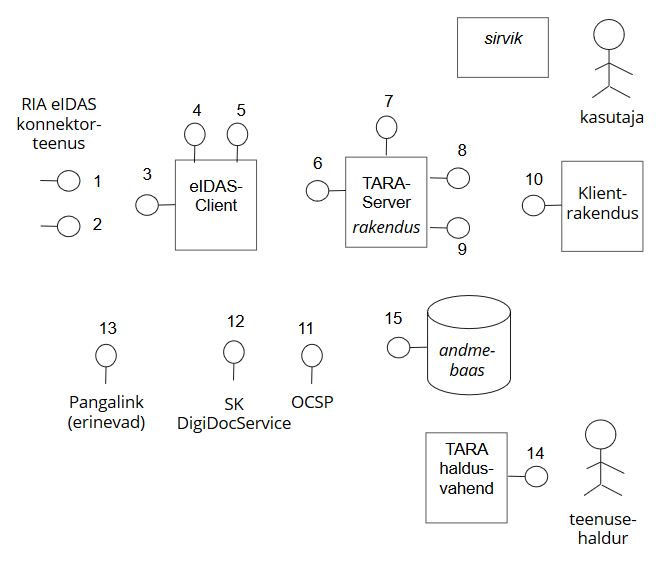
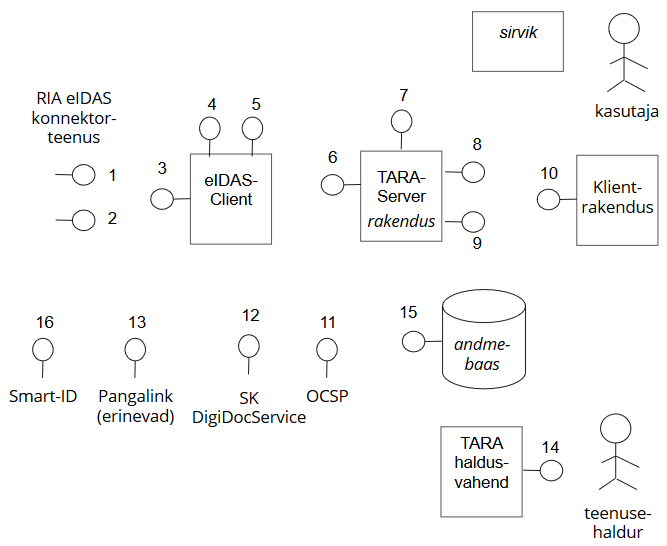
+

diff --git a/css/Times.css b/css/Times.css
@@ -90,7 +90,7 @@ p { margin: 0 0 1em 0; }
 /*#region Tabelid */
 table { width: 100%; margin: 0 4em 2em 0; }
 table { border-collapse: collapse; }    
-table, th, td { border: 1px solid black; }
+table, th, td { border: 1px solid lightgray; }
 th, td { padding: 8px; }
 th { font-weight: normal; font-style: italic; text-align: center; }
 /*#endregion */

diff --git a/Arhitektuurikirjeldus.md b/Arhitektuurikirjeldus.md
@@ -15,7 +15,7 @@ Käesolev dokument kirjeldab autentimisteenuse TARA ja selle vahetu ümbruse:
 - teenused ja liidesed
 - peamised sõltuvused.
 
-Ülevaate osapooltest, komponentidest ja liidestest esitab järgnev joonis. Täpsemad kirjeldused vt allpool.
+Ülevaate osapooltest, komponentidest ja liidestest esitab järgnev joonis. (Teenused on esitatud numbritega.) Täpsemad kirjeldused vt allpool.
 
 <p style='text-align:center;'><img src='img/TARA-Arhi.PNG' style='width:600px'></p>
 
@@ -23,35 +23,60 @@ Käesolev dokument kirjeldab autentimisteenuse TARA ja selle vahetu ümbruse:
 
 _Teenusena mõistame siin ühe komponendi v osapoole poolt teisele pakutavat andmeteenust või kasutajaliidest._
 
+RIA eIDAS konnektorteenus
+
 nr | teenus    | kasutaja(d)
 ---|-----------|-----------------------
-   | RIA eIDAS konnektorteenus | 
 1  | autentimispäringu vastuvõtu otspunkt | TARA server
 2  | metateabe otspunkt                   | eIDAS klient
-   | eIDAS-Client |
+
+eIDAS-Client
+
+nr | teenus    | kasutaja(d)
+---|-----------|-----------------------
 3  | metateabe otspunkt | RIA eIDAS konnektorteenus
 4  | autentimispäringu moodustamise otspunkt | TARA server
 5  | autentimisvastuse töötlemise otspunkt | TARA server
-   | TARA-Server
+
+TARA-Server
+
+nr | teenus    | kasutaja(d)
+---|-----------|-----------------------
 6  | eIDAS autentimisvastuse vastuvõtu otspunkt | RIA eIDAS konnektorteenus
 7  | autentimismeetodi valiku kasutajaliides<br>ID-kaardiga autentimise kasutajaliidest<br>mobiil-ID-ga autentimise kasutajaliides | kasutaja
 8  | autentimispäringu vastuvõtu otspunkt (OpenID Connect) | klientrakendus
 9  | identsustõendi väljastamise otspunkt (OpenID Connect) | klientrakendus
-   | klientrakendus |
+
+klientrakendus
+
+nr | teenus    | kasutaja(d)
+---|-----------|-----------------------
 10 | OpenID Connect tagasisuunamisotspunkt | TARA server
-   | SK ID Solutions
+
+SK ID Solutions
+
+nr | teenus    | kasutaja(d)
+---|-----------|-----------------------
 11 | ID-kaardi kehtivuskinnitusteenus (OCSP) | TARA server
 12 | mobiil-ID-ga autentimise teenus DigiDocService | TARA server
    | Pank (erinevad)
+16 | Smart-ID (veel teostamata) | TARA server   
+
+Panga infosüsteem
+
 13 | panga autentimisteenus ("pangalink") | TARA server
-   | TARA haldusvahend
+
+TARA haldusvahend
+
+nr | teenus    | kasutaja(d)
+---|-----------|-----------------------
 14 | teenusehalduri kasutajaliides | teenusehaldur
    | andmebaas
 15 | andmebaasiteenus (JDBC) | TARA server, TARA haldusvahend
 
 ## Komponendid ja osapooled
 
-### Autentimisteenuse TARA tuumkomponendid
+### TARA tuumkomponendid
 
 komponent v osapool  | funktsioon | repo vm detailsem kirjeldus 
 -----------|------------|----------------------------
@@ -65,12 +90,12 @@ teenusehaldur | RIA töötaja, kes registreerib klientrakendusi | -
 komponent v osapool  | funktsioon | repo vm detailsem kirjeldus 
 -----------|------------|----------------------------
 RIA eIDAS konnektorteenus | piiriülese autentimise vahendamine | [https://github.com/e-gov/eIDAS-Connector](https://github.com/e-gov/eIDAS-Connector)
-klientrakendus | TARA teenust kasutav, asutuse registreeritud infosüsteem
-kasutaja | autenditav füüsiline isik
+klientrakendus | TARA teenust kasutav, asutuse registreeritud infosüsteem | -
+kasutaja | autenditav füüsiline isik | -
 DigiDocService | SK ID Solutions AS mobiil-ID autentimisteenus | 
 [Technical information](https://sk.ee/en/services/validity-confirmation-services/digidoc-service/)
-OCSP | SK ID Solutions ID-kaardi kehtivuskinnitusteenus
-Panga infosüsteem | panga autentimisteenuse osutamine |
+OCSP | SK ID Solutions ID-kaardi kehtivuskinnitusteenus |
+Panga infosüsteem | panga autentimisteenuse osutamine | 
 Äriregister (perspektiivne) |  esindusõigusteabe pakkumine | [kirjeldus RIHAs](https://www.riha.ee/Infos%C3%BCsteemid/Vaata/arireg)
 Rahvastikuregister (perspektiivne) | füüsilise isiku aadressi pakkumine | [kirjeldus RIHAs](https://www.riha.ee/Infos%C3%BCsteemid/Vaata/rr)
 
@@ -103,12 +128,16 @@ TARA-Stat  | kasutusstatistika tootmine | [https://github.com/e-gov/TARA-Stat](h
 sõltuvus | märkused
 ---------|------------
 CEF eIDAS Node 1.4 tarkvara (RIA eIDAS konnektorteenuses) | 2019. a kevadeks vaja üle minna Node 2.0 tarkvarale. See tähendab eIDAS konnektorteenuse liidese täielikku ümbertegemist
-Apereo CAS | _bloated_, sisaldab mittevajalikku, raskesti kohandatav ja täiendatav
-Spring Framework |
+Apereo CAS | probleemne, sest _bloated_, sisaldab mittevajalikku, raskesti kohandatav ja täiendatav
+OpenID Connect | kasutusel piiratud ja kohandatud ulatuses
 OpenSAML 3.3.0 | Node 2.x üleminekul vajadus langeb ära
 Java 1.8 | 
-OpenID Connect | kasutusel piiratud ja kohandatud ulatuses
+Spring Framework |
 PostgreSQL 9.4 |
+iPizza | pangalinkide protokoll
+DigiDocService | mobiil-ID autentimisteenuse API
+ID-kaardi serdimehhanism |
+SmartID | (liides on veel teostamata)
 
 
 
